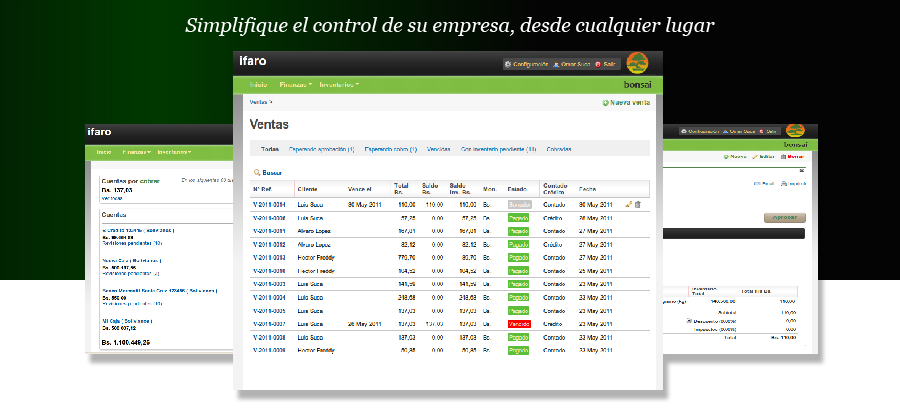
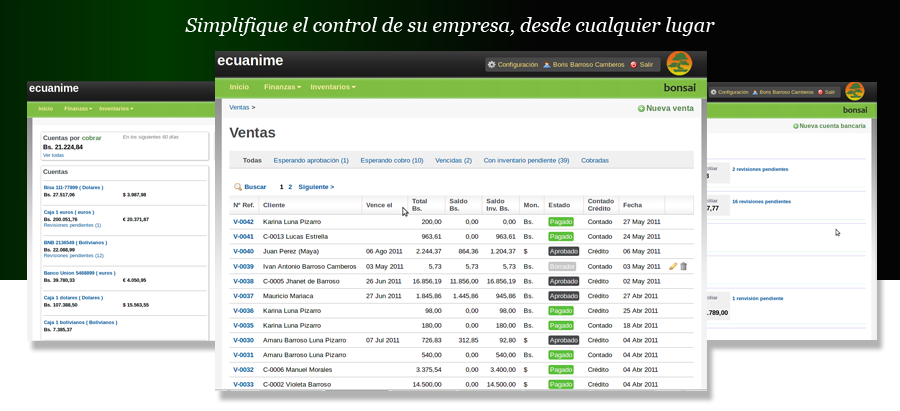
arreglo de header y imagenes de ventanas

Changed region(s): [[0.0311, 0.1168, 0.9956, 0.9927], [0.2178, 0.7591, 0.2489, 0.7883]]

diff --git a/app/assets/stylesheets/home.css.scss b/app/assets/stylesheets/home.css.scss
@@ -13,15 +13,15 @@ a{
 }
 
 @mixin t-shadow($top:1px, $left: 1px, $dif: 0px, $col: $grey){
-  text-shadow: $top $left $dif darken($grey, 20%);
-  -moz-text-shadow: $top $left $dif darken($grey, 20%);
-  -webkit-text-shadow: $top $left $dif darken($grey, 20%);
+  text-shadow: $top $left $dif $col;
+  -moz-text-shadow: $top $left $dif $col;
+  -webkit-text-shadow: $top $left $dif $col;
 }
 
 @mixin b-shadow($top:0px, $left: 0px, $dif: 5px, $col: $grey){
-  box-shadow: $top $left $dif darken($grey, 20%);
-  -moz-box-shadow: $top $left $dif darken($grey, 20%);
-  -webkit-box-shadow: $top $left $dif darken($grey, 20%);
+  box-shadow: $top $left $dif $col;
+  -moz-box-shadow: $top $left $dif $col;
+  -webkit-box-shadow: $top $left $dif $col;
 }
 .but{
   display: inline-block;
@@ -31,17 +31,31 @@ a{
 #wrapper{
   width: 900px;
   text-align: left;
-  margin: auto;
+  margin: 40px auto 60px auto;
   background-color: $white;
   @include b-shadow(0px, 0px, 10px, darken($grey, 30%));
-  border-radius: 0px 0px 8px 8px;
+  border-radius: 4px 4px 8px 8px;
 }
 
 
 #header{
   position: relative;
+  height: 90px;
   #logo{
-    margin: 15px 10px;
+    margin: 20px 10px;
+  }
+  #login{
+    background: transparent url(user.png) no-repeat;
+    position: absolute;
+    top: 30px;
+    right: 20px;
+    padding-left: 20px;
+    color: darken($grey, 40%);
+    font-size: 15px;
+    text-decoration: none;
+    &:hover{
+      @include t-shadow(1px, 1px, 2px, $grey);
+    }
   }
   #menu{
     list-style: none;
@@ -52,23 +66,23 @@ a{
     li{
       display: inline;
       float: left;
-      a.selected{ color: darken($green, 10%) }
       a{
         display: block;
         margin: 0px 5px;
         font-family: 'Muli', arial, serif;
-        color: #000;
+        color: darken($grey, 30%);
         text-decoration: none;
         font-size: 20px;
         &:hover{ color: $green; }
-        @include t-shadow(1px, 1px, 1px, darken($grey, 5%));
+        @include t-shadow(1px, 1px, 1px, darken($grey, 20%));
+      }
+      a.selected{ 
+        color: darken($green, 10%);
+        text-shadow: 2px 2px 2px darken($grey, 20%);
+        -moz-text-shadow: 2px 2px 2px darken($grey, 20%);
+        -webkit-text-shadow: 2px 2px 2px darken($grey, 20%);
       }
     }
-  }
-  #login{
-    position: absolute;
-    top: 15px;
-    right: 40px;
   }
 }
 
@@ -89,7 +103,7 @@ a{
 }
 
 #boxes{
-  padding: 0px 20px;
+  padding: 0px 40px;
 }
 .box{
   width: 30%;
@@ -97,6 +111,23 @@ a{
   margin: 10px 5px;
   h3{ margin: 4px; color: darken($green, 20%)}
   p{
-    margin: 2px;
+    margin: 5px;
   }
 }
+#titles{
+  padding: 0px 150px;
+}
+.title{
+  width: 100%;
+  h2{ margin: 10px; color:darken($green, 40%); font-weight: normal; }
+  }
+#foots{
+  padding: 1px 50px;
+}  
+.foot{
+  width: 30%;
+  float: left;
+  margin: 10px 5px;
+  p{margin: 5px;}
+}
+
